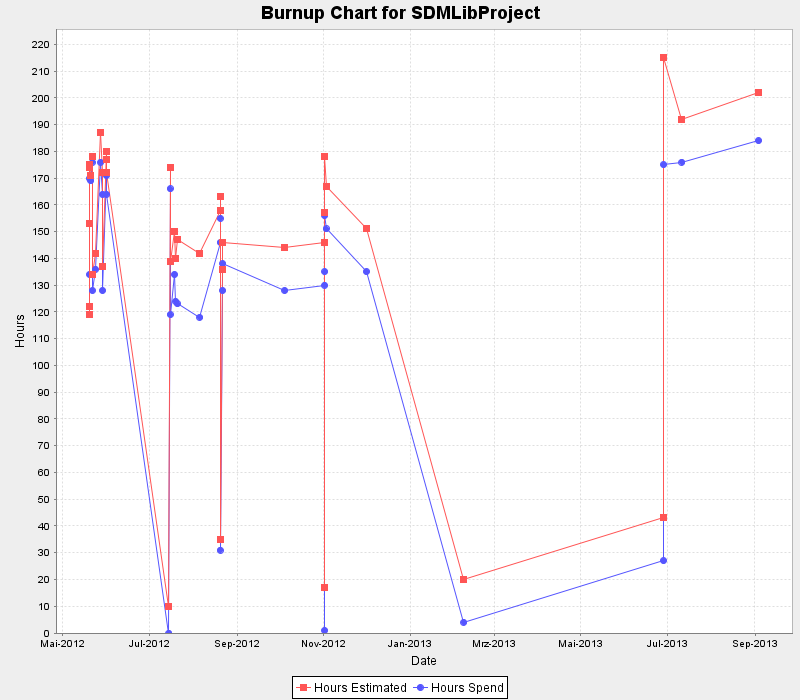
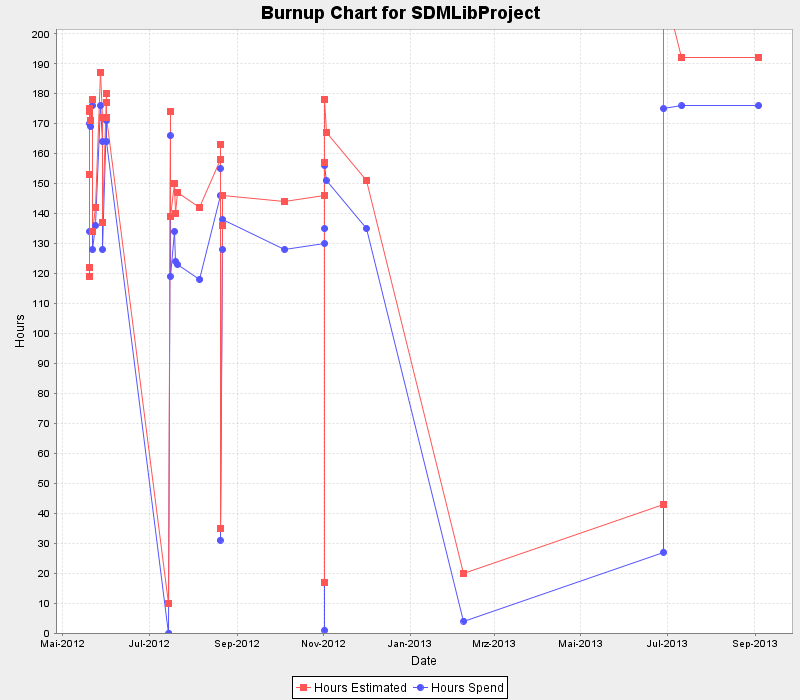
removed dead entries from index.html
git-svn-id: https://svn.code.sf.net/p/sdmlib/code-0/trunk@445 2b52b8e8-071c-4d2f-a868-389f512d1cbb

diff --git a/doc/objectData.html b/doc/objectData.html
@@ -1,23 +1,21 @@
 <html>
 <body>
-<a name='KE.K1'><p>id: <a href='#KE.K1'>KE.K1</a> <br/>class: org.sdmlib.scenarios.KanbanEntry <br/>prop: {"name":"SDMLibProject","phase":"active","lastDeveloper":"zuendorf","hoursRemaining":18,"hoursSpend":184,"subentries":[{"id":"KE.K103"},{"id":"KE.K175"},{"id":"KE.K117"},{"id":"KE.K162"},{"id":"KE.K139"},{"id":"KE.K237"},{"id":"KE.K147"},{"id":"KE.K191"},{"id":"KE.K143"},{"id":"KE.K209"},{"id":"KE.K217"},{"id":"KE.K145"},{"id":"KE.K233"},{"id":"KE.K45"},{"id":"KE.K18"},{"id":"KE.K11"},{"id":"KE.K185"},{"id":"KE.K201"},{"id":"KE.K179"},{"id":"KE.K149"},{"id":"KE.K221"},{"id":"KE.K160"},{"id":"KE.K198"},{"id":"KE.K207"},{"id":"KE.K213"},{"id":"KE.K2"},{"id":"KE.K189"},{"id":"KE.K223"},{"id":"KE.K187"},{"id":"KE.K225"},{"id":"KE.K136"},{"id":"KE.K235"},{"id":"KE.K229"},{"id":"KE.K241"},{"id":"KE.K215"},{"id":"KE.K239"},{"id":"KE.K126"},{"id":"KE.K245"}],"logEntries":[{"id":"KE.L100"},{"id":"KE.L196"},{"id":"KE.L118"},{"id":"KE.L202"},{"id":"KE.L218"},{"id":"KE.L23"},{"id":"KE.L59"},{"id":"KE.L151"},{"id":"KE.L67"},{"id":"KE.L33"},{"id":"KE.L228"},{"id":"KE.L172"},{"id":"KE.L53"},{"id":"KE.L180"},{"id":"KE.L164"},{"id":"KE.L155"},{"id":"KE.L14"},{"id":"KE.L51"},{"id":"KE.L121"},{"id":"KE.L110"},{"id":"KE.L42"},{"id":"KE.L130"},{"id":"KE.L127"},{"id":"KE.L80"},{"id":"KE.L192"},{"id":"KE.L64"},{"id":"KE.L177"},{"id":"KE.L194"},{"id":"KE.L124"},{"id":"KE.L36"},{"id":"KE.L211"},{"id":"KE.L199"},{"id":"KE.L113"},{"id":"KE.L95"},{"id":"KE.L70"},{"id":"KE.L182"},{"id":"KE.L166"},{"id":"KE.L97"},{"id":"KE.L205"},{"id":"KE.L169"},{"id":"KE.L204"},{"id":"KE.L91"},{"id":"KE.L77"},{"id":"KE.L107"},{"id":"KE.L55"},{"id":"KE.L47"},{"id":"KE.L87"},{"id":"KE.L84"},{"id":"KE.L38"},{"id":"KE.L232"},{"id":"KE.L61"},{"id":"KE.L74"},{"id":"KE.L243"},{"id":"KE.L249"},{"id":"KE.L250"},{"id":"KE.L251"}]} <br/></p></a>
-<a name='KE.K2'><p>id: <a href='#KE.K2'>KE.K2</a> <br/>class: org.sdmlib.scenarios.KanbanEntry <br/>prop: {"name":"Sprint.001.Booting","phase":"active","lastDeveloper":"zuendorf","hoursRemaining":4,"hoursSpend":60,"parent":{"id":"KE.K1"},"subentries":[{"id":"KE.K3"},{"id":"KE.K4"},{"id":"KE.K5"},{"id":"KE.K6"},{"id":"KE.K9"},{"id":"KE.K7"},{"id":"KE.K10"},{"id":"KE.K8"},{"id":"KE.K73"}],"logEntries":[{"id":"KE.L65"},{"id":"KE.L173"},{"id":"KE.L48"},{"id":"KE.L68"},{"id":"KE.L52"},{"id":"KE.L88"},{"id":"KE.L156"},{"id":"KE.L85"},{"id":"KE.L75"},{"id":"KE.L131"},{"id":"KE.L34"},{"id":"KE.L62"},{"id":"KE.L152"},{"id":"KE.L167"},{"id":"KE.L96"},{"id":"KE.L15"},{"id":"KE.L24"},{"id":"KE.L37"},{"id":"KE.L39"},{"id":"KE.L43"},{"id":"KE.L54"},{"id":"KE.L56"},{"id":"KE.L71"},{"id":"KE.L78"},{"id":"KE.L81"},{"id":"KE.L92"},{"id":"KE.L98"},{"id":"KE.L101"},{"id":"KE.L105"},{"id":"KE.L244"}]} <br/></p></a>
+<a name='KE.K1'><p>id: <a href='#KE.K1'>KE.K1</a> <br/>class: org.sdmlib.scenarios.KanbanEntry <br/>prop: {"name":"SDMLibProject","phase":"active","lastDeveloper":"zuendorf","hoursRemaining":16,"hoursSpend":176,"subentries":[{"id":"KE.K103"},{"id":"KE.K175"},{"id":"KE.K117"},{"id":"KE.K162"},{"id":"KE.K139"},{"id":"KE.K237"},{"id":"KE.K147"},{"id":"KE.K191"},{"id":"KE.K143"},{"id":"KE.K209"},{"id":"KE.K217"},{"id":"KE.K145"},{"id":"KE.K233"},{"id":"KE.K45"},{"id":"KE.K18"},{"id":"KE.K11"},{"id":"KE.K185"},{"id":"KE.K201"},{"id":"KE.K179"},{"id":"KE.K149"},{"id":"KE.K221"},{"id":"KE.K160"},{"id":"KE.K198"},{"id":"KE.K2"},{"id":"KE.K189"},{"id":"KE.K225"},{"id":"KE.K136"},{"id":"KE.K235"},{"id":"KE.K229"},{"id":"KE.K241"},{"id":"KE.K215"},{"id":"KE.K239"},{"id":"KE.K126"},{"id":"KE.K245"}],"logEntries":[{"id":"KE.L100"},{"id":"KE.L196"},{"id":"KE.L118"},{"id":"KE.L202"},{"id":"KE.L218"},{"id":"KE.L23"},{"id":"KE.L59"},{"id":"KE.L151"},{"id":"KE.L67"},{"id":"KE.L33"},{"id":"KE.L228"},{"id":"KE.L172"},{"id":"KE.L53"},{"id":"KE.L180"},{"id":"KE.L164"},{"id":"KE.L155"},{"id":"KE.L14"},{"id":"KE.L51"},{"id":"KE.L121"},{"id":"KE.L110"},{"id":"KE.L42"},{"id":"KE.L130"},{"id":"KE.L127"},{"id":"KE.L80"},{"id":"KE.L192"},{"id":"KE.L64"},{"id":"KE.L177"},{"id":"KE.L194"},{"id":"KE.L124"},{"id":"KE.L36"},{"id":"KE.L211"},{"id":"KE.L199"},{"id":"KE.L113"},{"id":"KE.L95"},{"id":"KE.L70"},{"id":"KE.L182"},{"id":"KE.L166"},{"id":"KE.L97"},{"id":"KE.L205"},{"id":"KE.L169"},{"id":"KE.L204"},{"id":"KE.L91"},{"id":"KE.L77"},{"id":"KE.L107"},{"id":"KE.L55"},{"id":"KE.L47"},{"id":"KE.L87"},{"id":"KE.L84"},{"id":"KE.L38"},{"id":"KE.L232"},{"id":"KE.L61"},{"id":"KE.L74"},{"id":"KE.L243"},{"id":"KE.L249"},{"id":"KE.L250"},{"id":"KE.L251"},{"id":"KE.L253"}]} <br/></p></a>
+<a name='KE.K2'><p>id: <a href='#KE.K2'>KE.K2</a> <br/>class: org.sdmlib.scenarios.KanbanEntry <br/>prop: {"name":"Sprint.001.Booting","phase":"active","lastDeveloper":"zuendorf","hoursRemaining":2,"hoursSpend":52,"parent":{"id":"KE.K1"},"subentries":[{"id":"KE.K3"},{"id":"KE.K4"},{"id":"KE.K5"},{"id":"KE.K6"},{"id":"KE.K7"},{"id":"KE.K10"},{"id":"KE.K8"},{"id":"KE.K73"}],"logEntries":[{"id":"KE.L65"},{"id":"KE.L173"},{"id":"KE.L48"},{"id":"KE.L68"},{"id":"KE.L52"},{"id":"KE.L88"},{"id":"KE.L156"},{"id":"KE.L85"},{"id":"KE.L75"},{"id":"KE.L131"},{"id":"KE.L34"},{"id":"KE.L62"},{"id":"KE.L152"},{"id":"KE.L167"},{"id":"KE.L96"},{"id":"KE.L15"},{"id":"KE.L24"},{"id":"KE.L37"},{"id":"KE.L39"},{"id":"KE.L43"},{"id":"KE.L54"},{"id":"KE.L56"},{"id":"KE.L71"},{"id":"KE.L78"},{"id":"KE.L81"},{"id":"KE.L92"},{"id":"KE.L98"},{"id":"KE.L101"},{"id":"KE.L105"},{"id":"KE.L244"},{"id":"KE.L252"}]} <br/></p></a>
 <a name='KE.K3'><p>id: <a href='#KE.K3'>KE.K3</a> <br/>class: org.sdmlib.scenarios.KanbanEntry <br/>prop: {"name":"ScenarioInfrastructure","phase":"done","lastDeveloper":"zuendorf","hoursSpend":1,"parent":{"id":"KE.K2"},"logEntries":[{"id":"KE.L13"},{"id":"KE.L16"}]} <br/></p></a>
 <a name='KE.K4'><p>id: <a href='#KE.K4'>KE.K4</a> <br/>class: org.sdmlib.scenarios.KanbanEntry <br/>prop: {"name":"StudyRightClassesCodeGen","phase":"done","lastDeveloper":"zuendorf","hoursSpend":13,"parent":{"id":"KE.K2"},"logEntries":[{"id":"KE.L40"},{"id":"KE.L25"},{"id":"KE.L26"},{"id":"KE.L27"},{"id":"KE.L28"},{"id":"KE.L29"},{"id":"KE.L30"},{"id":"KE.L31"},{"id":"KE.L32"},{"id":"KE.L41"},{"id":"KE.L44"},{"id":"KE.L57"},{"id":"KE.L58"}]} <br/></p></a>
 <a name='KE.K5'><p>id: <a href='#KE.K5'>KE.K5</a> <br/>class: org.sdmlib.scenarios.KanbanEntry <br/>prop: {"name":"StudyRightObjectScenarios","phase":"done","lastDeveloper":"zuendorf","hoursRemaining":2,"hoursSpend":6,"parent":{"id":"KE.K2"},"logEntries":[{"id":"KE.L63"},{"id":"KE.L49"},{"id":"KE.L21"},{"id":"KE.L22"},{"id":"KE.L50"},{"id":"KE.L66"},{"id":"KE.L174"}],"files":"examples/org/sdmlib/examples/studyright/StudyRightClassesCodeGen.java"} <br/></p></a>
 <a name='KE.K6'><p>id: <a href='#KE.K6'>KE.K6</a> <br/>class: org.sdmlib.scenarios.KanbanEntry <br/>prop: {"name":"StudyRightReverseClassModel","phase":"done","lastDeveloper":"zuendorf","hoursSpend":1,"parent":{"id":"KE.K2"},"logEntries":[{"id":"KE.L17"},{"id":"KE.L35"}],"files":"examples/org/sdmlib/examples/studyright/StudyRightClassesCodeGen.java"} <br/></p></a>
 <a name='KE.K7'><p>id: <a href='#KE.K7'>KE.K7</a> <br/>class: org.sdmlib.scenarios.KanbanEntry <br/>prop: {"name":"ClassModelCodeGen","phase":"implementation","lastDeveloper":"zuendorf","hoursSpend":12,"parent":{"id":"KE.K2"},"logEntries":[{"id":"KE.L133"},{"id":"KE.L135"},{"id":"KE.L132"},{"id":"KE.L134"},{"id":"KE.L168"}]} <br/></p></a>
 <a name='KE.K8'><p>id: <a href='#KE.K8'>KE.K8</a> <br/>class: org.sdmlib.scenarios.KanbanEntry <br/>prop: {"name":"GroupAccountCodegen","phase":"done","lastDeveloper":"zuendorf","hoursSpend":2,"parent":{"id":"KE.K2"},"logEntries":[{"id":"KE.L69"},{"id":"KE.L72"}],"files":"examples/org/sdmlib/examples/groupAccount/GroupAccountTests.java"} <br/></p></a>
-<a name='KE.K9'><p>id: <a href='#KE.K9'>KE.K9</a> <br/>class: org.sdmlib.scenarios.KanbanEntry <br/>prop: {"name":"GroupAccountRuleRecognition","phase":"modeling","lastDeveloper":"zuendorf","hoursRemaining":2,"hoursSpend":8,"parent":{"id":"KE.K2"},"logEntries":[{"id":"KE.L93"},{"id":"KE.L94"}],"files":"examples/org/sdmlib/examples/groupAccount/GroupAccountTests.java"} <br/></p></a>
 <a name='KE.K10'><p>id: <a href='#KE.K10'>KE.K10</a> <br/>class: org.sdmlib.scenarios.KanbanEntry <br/>prop: {"name":"TransformationsCodegen","phase":"modeling","lastDeveloper":"zuendorf","hoursSpend":7,"parent":{"id":"KE.K2"},"logEntries":[{"id":"KE.L157"},{"id":"KE.L138"},{"id":"KE.L158"},{"id":"KE.L159"}],"files":"test/org/sdmlib/models/transformations/TransformationsCodeGen.java"} <br/></p></a>
 <a name='KE.K11'><p>id: <a href='#KE.K11'>KE.K11</a> <br/>class: org.sdmlib.scenarios.KanbanEntry <br/>prop: {"name":"ProjectManagement","phase":"active","lastDeveloper":"zuendorf","parent":{"id":"KE.K1"},"logEntries":[{"id":"KE.L12"}]} <br/></p></a>
 <a name='KE.K18'><p>id: <a href='#KE.K18'>KE.K18</a> <br/>class: org.sdmlib.scenarios.KanbanEntry <br/>prop: {"name":"StudyRightExtendsReverseClassModel","phase":"backlog","lastDeveloper":"ajahl","parent":{"id":"KE.K1"},"logEntries":[{"id":"KE.L19"},{"id":"KE.L20"}]} <br/></p></a>
 <a name='KE.K45'><p>id: <a href='#KE.K45'>KE.K45</a> <br/>class: org.sdmlib.scenarios.KanbanEntry <br/>prop: {"name":"StudyRightOneToOneAssoc","phase":"done","lastDeveloper":"zuendorf","hoursSpend":1,"parent":{"id":"KE.K1"},"logEntries":[{"id":"KE.L46"},{"id":"KE.L60"}]} <br/></p></a>
 <a name='KE.K73'><p>id: <a href='#KE.K73'>KE.K73</a> <br/>class: org.sdmlib.scenarios.KanbanEntry <br/>prop: {"name":"GenericObjectDiagram","phase":"backlog","lastDeveloper":"zuendorf","hoursSpend":10,"parent":{"id":"KE.K2"},"logEntries":[{"id":"KE.L79"},{"id":"KE.L82"},{"id":"KE.L83"},{"id":"KE.L90"},{"id":"KE.L153"},{"id":"KE.L86"},{"id":"KE.L76"},{"id":"KE.L89"},{"id":"KE.L141"}],"files":"test/org/sdmlib/models/objects/GenericObjectsTest.java"} <br/></p></a>
 <a name='KE.K99'><p>id: <a href='#KE.K99'>KE.K99</a> <br/>class: org.sdmlib.scenarios.KanbanEntry <br/>prop: {"name":"LudoModel","phase":"backlog","lastDeveloper":"zuendorf","hoursSpend":2,"parent":{"id":"KE.K103"},"logEntries":[{"id":"KE.L102"},{"id":"KE.L109"},{"id":"KE.L112"},{"id":"KE.L123"},{"id":"KE.L142"}],"files":"examples/org/sdmlib/examples/ludo/LudoModel.java"} <br/></p></a>
-<a name='KE.K103'><p>id: <a href='#KE.K103'>KE.K103</a> <br/>class: org.sdmlib.scenarios.KanbanEntry <br/>prop: {"name":"Sprint.002.Transformations","phase":"active","lastDeveloper":"zuendorf","hoursSpend":6,"parent":{"id":"KE.K1"},"subentries":[{"id":"KE.K99"},{"id":"KE.K104"},{"id":"KE.K116"},{"id":"KE.K154"}],"logEntries":[{"id":"KE.L106"},{"id":"KE.L108"},{"id":"KE.L111"},{"id":"KE.L114"},{"id":"KE.L122"},{"id":"KE.L170"}]} <br/></p></a>
+<a name='KE.K103'><p>id: <a href='#KE.K103'>KE.K103</a> <br/>class: org.sdmlib.scenarios.KanbanEntry <br/>prop: {"name":"Sprint.002.Transformations","phase":"active","lastDeveloper":"zuendorf","hoursSpend":6,"parent":{"id":"KE.K1"},"subentries":[{"id":"KE.K99"},{"id":"KE.K104"},{"id":"KE.K154"}],"logEntries":[{"id":"KE.L106"},{"id":"KE.L108"},{"id":"KE.L111"},{"id":"KE.L114"},{"id":"KE.L122"},{"id":"KE.L170"}]} <br/></p></a>
 <a name='KE.K104'><p>id: <a href='#KE.K104'>KE.K104</a> <br/>class: org.sdmlib.scenarios.KanbanEntry <br/>prop: {"name":"LudoScenario","phase":"modeling","lastDeveloper":"zuendorf","hoursSpend":4,"parent":{"id":"KE.K103"},"logEntries":[{"id":"KE.L115"},{"id":"KE.L171"}],"files":"examples/org/sdmlib/examples/ludo/LudoScenario.java"} <br/></p></a>
-<a name='KE.K116'><p>id: <a href='#KE.K116'>KE.K116</a> <br/>class: org.sdmlib.scenarios.KanbanEntry <br/>prop: {"name":"PatternModel","phase":"backlog","parent":{"id":"KE.K103"},"files":"test/org/sdmlib/models/patterns/PatternModelCodeGen.java"} <br/></p></a>
 <a name='KE.K117'><p>id: <a href='#KE.K117'>KE.K117</a> <br/>class: org.sdmlib.scenarios.KanbanEntry <br/>prop: {"name":"PatternModelCodegen","phase":"done","lastDeveloper":"zuendorf","hoursSpend":84,"parent":{"id":"KE.K1"},"logEntries":[{"id":"KE.L119"},{"id":"KE.L120"},{"id":"KE.L125"},{"id":"KE.L165"}]} <br/></p></a>
 <a name='KE.K126'><p>id: <a href='#KE.K126'>KE.K126</a> <br/>class: org.sdmlib.scenarios.KanbanEntry <br/>prop: {"name":"LudoScenarioManual","phase":"done","lastDeveloper":"zuendorf","hoursSpend":1,"parent":{"id":"KE.K1"},"logEntries":[{"id":"KE.L128"},{"id":"KE.L129"}]} <br/></p></a>
 <a name='KE.K136'><p>id: <a href='#KE.K136'>KE.K136</a> <br/>class: org.sdmlib.scenarios.KanbanEntry <br/>prop: {"name":"TTC2011HelloWorldConstantTransformation1","phase":"backlog","lastDeveloper":"zuendorf","parent":{"id":"KE.K1"},"logEntries":[{"id":"KE.L137"}]} <br/></p></a>
@@ -32,18 +30,14 @@
 <a name='KE.K175'><p>id: <a href='#KE.K175'>KE.K175</a> <br/>class: org.sdmlib.scenarios.KanbanEntry <br/>prop: {"name":"TodoEntries","phase":"modeling","lastDeveloper":"zuendorf","hoursRemaining":4,"parent":{"id":"KE.K1"},"logEntries":[{"id":"KE.L176"},{"id":"KE.L178"}]} <br/></p></a>
 <a name='KE.K179'><p>id: <a href='#KE.K179'>KE.K179</a> <br/>class: org.sdmlib.scenarios.KanbanEntry <br/>prop: {"name":"ExtendScenarioByAddToDoMethod","phase":"backlog","lastDeveloper":"zuendorf","hoursSpend":5,"parent":{"id":"KE.K1"},"logEntries":[{"id":"KE.L197"},{"id":"KE.L195"},{"id":"KE.L181"},{"id":"KE.L183"},{"id":"KE.L184"}]} <br/></p></a>
 <a name='KE.K185'><p>id: <a href='#KE.K185'>KE.K185</a> <br/>class: org.sdmlib.scenarios.KanbanEntry <br/>prop: {"name":"taskFlowModel","phase":"backlog","lastDeveloper":"zuendorf","parent":{"id":"KE.K1"},"logEntries":[{"id":"KE.L186"}]} <br/></p></a>
-<a name='KE.K187'><p>id: <a href='#KE.K187'>KE.K187</a> <br/>class: org.sdmlib.scenarios.KanbanEntry <br/>prop: {"name":"peerToPeerChatModel","phase":"backlog","lastDeveloper":"zuendorf","parent":{"id":"KE.K1"},"logEntries":[{"id":"KE.L188"}]} <br/></p></a>
 <a name='KE.K189'><p>id: <a href='#KE.K189'>KE.K189</a> <br/>class: org.sdmlib.scenarios.KanbanEntry <br/>prop: {"name":"adamAndEveModel","phase":"backlog","lastDeveloper":"zuendorf","parent":{"id":"KE.K1"},"logEntries":[{"id":"KE.L190"}]} <br/></p></a>
 <a name='KE.K191'><p>id: <a href='#KE.K191'>KE.K191</a> <br/>class: org.sdmlib.scenarios.KanbanEntry <br/>prop: {"name":"we should build attr.remove","phase":"backlog","lastDeveloper":"zuendorf","hoursRemaining":8,"parent":{"id":"KE.K1"},"logEntries":[{"id":"KE.L193"}]} <br/></p></a>
 <a name='KE.K198'><p>id: <a href='#KE.K198'>KE.K198</a> <br/>class: org.sdmlib.scenarios.KanbanEntry <br/>prop: {"name":"WrapExistingClasses","phase":"backlog","lastDeveloper":"zuendorf","hoursSpend":5,"parent":{"id":"KE.K1"},"logEntries":[{"id":"KE.L200"},{"id":"KE.L206"}]} <br/></p></a>
 <a name='KE.K201'><p>id: <a href='#KE.K201'>KE.K201</a> <br/>class: org.sdmlib.scenarios.KanbanEntry <br/>prop: {"name":"SortIndex","phase":"done","lastDeveloper":"zuendorf","hoursSpend":1,"parent":{"id":"KE.K1"},"logEntries":[{"id":"KE.L203"}]} <br/></p></a>
-<a name='KE.K207'><p>id: <a href='#KE.K207'>KE.K207</a> <br/>class: org.sdmlib.scenarios.KanbanEntry <br/>prop: {"name":"PeerToServerChatScenario","phase":"backlog","lastDeveloper":"zuendorf","parent":{"id":"KE.K1"},"logEntries":[{"id":"KE.L208"}]} <br/></p></a>
 <a name='KE.K209'><p>id: <a href='#KE.K209'>KE.K209</a> <br/>class: org.sdmlib.scenarios.KanbanEntry <br/>prop: {"name":"EmptyClass","phase":"done","lastDeveloper":"zuendorf","hoursSpend":1,"parent":{"id":"KE.K1"},"logEntries":[{"id":"KE.L210"},{"id":"KE.L212"}]} <br/></p></a>
-<a name='KE.K213'><p>id: <a href='#KE.K213'>KE.K213</a> <br/>class: org.sdmlib.scenarios.KanbanEntry <br/>prop: {"name":"PeerToPeerNetworkChatScenario","phase":"backlog","lastDeveloper":"zuendorf","parent":{"id":"KE.K1"},"logEntries":[{"id":"KE.L214"}]} <br/></p></a>
 <a name='KE.K215'><p>id: <a href='#KE.K215'>KE.K215</a> <br/>class: org.sdmlib.scenarios.KanbanEntry <br/>prop: {"name":"trainCollectPassengers","phase":"backlog","lastDeveloper":"zuendorf","parent":{"id":"KE.K1"},"logEntries":[{"id":"KE.L216"}]} <br/></p></a>
 <a name='KE.K217'><p>id: <a href='#KE.K217'>KE.K217</a> <br/>class: org.sdmlib.scenarios.KanbanEntry <br/>prop: {"name":"TrainModel","phase":"done","lastDeveloper":"zuendorf","hoursSpend":3,"parent":{"id":"KE.K1"},"logEntries":[{"id":"KE.L219"},{"id":"KE.L220"}]} <br/></p></a>
 <a name='KE.K221'><p>id: <a href='#KE.K221'>KE.K221</a> <br/>class: org.sdmlib.scenarios.KanbanEntry <br/>prop: {"name":"ReplicationModel","phase":"backlog","lastDeveloper":"zuendorf","parent":{"id":"KE.K1"},"logEntries":[{"id":"KE.L222"}]} <br/></p></a>
-<a name='KE.K223'><p>id: <a href='#KE.K223'>KE.K223</a> <br/>class: org.sdmlib.scenarios.KanbanEntry <br/>prop: {"name":"MauMauModel","phase":"backlog","lastDeveloper":"zuendorf","parent":{"id":"KE.K1"},"logEntries":[{"id":"KE.L224"}]} <br/></p></a>
 <a name='KE.K225'><p>id: <a href='#KE.K225'>KE.K225</a> <br/>class: org.sdmlib.scenarios.KanbanEntry <br/>prop: {"name":"EMFStudyRightClasses","phase":"modeling","lastDeveloper":"zuendorf","hoursSpend":8,"parent":{"id":"KE.K1"},"logEntries":[{"id":"KE.L226"},{"id":"KE.L227"}]} <br/></p></a>
 <a name='KE.K229'><p>id: <a href='#KE.K229'>KE.K229</a> <br/>class: org.sdmlib.scenarios.KanbanEntry <br/>prop: {"name":"LoadEcoreCreateClassModel","phase":"backlog","lastDeveloper":"zuendorf","hoursSpend":1,"parent":{"id":"KE.K1"},"logEntries":[{"id":"KE.L231"},{"id":"KE.L230"}]} <br/></p></a>
 <a name='KE.K233'><p>id: <a href='#KE.K233'>KE.K233</a> <br/>class: org.sdmlib.scenarios.KanbanEntry <br/>prop: {"name":"SimpleReachabilityGraphModel","phase":"backlog","lastDeveloper":"zuendorf","parent":{"id":"KE.K1"},"logEntries":[{"id":"KE.L234"}]} <br/></p></a>
@@ -130,8 +124,6 @@
 <a name='KE.L90'><p>id: <a href='#KE.L90'>KE.L90</a> <br/>class: org.sdmlib.scenarios.LogEntry <br/>prop: {"date":"31.05.2012 15:22:42","kanbanEntry":{"id":"KE.K73"},"developer":"zuendorf","phase":"bug","comment":"Achieved: BUG REPORT: if an object has a (String) attribute with name 'id', this attribute is not shown in the object diagram "} <br/></p></a>
 <a name='KE.L91'><p>id: <a href='#KE.L91'>KE.L91</a> <br/>class: org.sdmlib.scenarios.LogEntry <br/>prop: {"date":"31.05.2012 15:22:42","hoursSpend":8,"hoursRemainingInTotal":8,"kanbanEntry":{"id":"KE.K1"},"developer":"zuendorf","phase":"active","comment":"Sprint.001.Booting: GenericObjectDiagram: Achieved: BUG REPORT: if an object has a (String) attribute with name 'id', this attribute is not shown in the object diagram "} <br/></p></a>
 <a name='KE.L92'><p>id: <a href='#KE.L92'>KE.L92</a> <br/>class: org.sdmlib.scenarios.LogEntry <br/>prop: {"date":"31.05.2012 15:22:42","hoursSpend":8,"hoursRemainingInTotal":8,"kanbanEntry":{"id":"KE.K2"},"developer":"zuendorf","phase":"active","comment":"GenericObjectDiagram: Achieved: BUG REPORT: if an object has a (String) attribute with name 'id', this attribute is not shown in the object diagram "} <br/></p></a>
-<a name='KE.L93'><p>id: <a href='#KE.L93'>KE.L93</a> <br/>class: org.sdmlib.scenarios.LogEntry <br/>prop: {"date":"04.04.2012 00:26:59","hoursRemainingInTotal":2,"kanbanEntry":{"id":"KE.K9"},"developer":"zuendorf","phase":"modeling","comment":"Achieved: Start situation: classes have been generated. Now create some example object structure"} <br/></p></a>
-<a name='KE.L94'><p>id: <a href='#KE.L94'>KE.L94</a> <br/>class: org.sdmlib.scenarios.LogEntry <br/>prop: {"date":"15.04.2012 17:18:42","hoursSpend":8,"hoursRemainingInTotal":2,"kanbanEntry":{"id":"KE.K9"},"developer":"zuendorf","phase":"modeling","comment":"Achieved: We will call updateBalances() to compute the correct balances.nTherefore, show updateBalances() first as code and then as a graphical model transformation operation diagram."} <br/></p></a>
 <a name='KE.L95'><p>id: <a href='#KE.L95'>KE.L95</a> <br/>class: org.sdmlib.scenarios.LogEntry <br/>prop: {"date":"31.05.2012 15:22:42","hoursRemainingInTotal":10,"kanbanEntry":{"id":"KE.K1"},"developer":"zuendorf","phase":"active","comment":"Sprint.001.Booting: GenericObjectDiagram: Achieved: BUG REPORT: if an object has a (String) attribute with name 'id', this attribute is not shown in the object diagram "} <br/></p></a>
 <a name='KE.L96'><p>id: <a href='#KE.L96'>KE.L96</a> <br/>class: org.sdmlib.scenarios.LogEntry <br/>prop: {"date":"31.05.2012 15:22:42","hoursRemainingInTotal":10,"kanbanEntry":{"id":"KE.K2"},"developer":"zuendorf","phase":"active","comment":"GenericObjectDiagram: Achieved: BUG REPORT: if an object has a (String) attribute with name 'id', this attribute is not shown in the object diagram "} <br/></p></a>
 <a name='KE.L97'><p>id: <a href='#KE.L97'>KE.L97</a> <br/>class: org.sdmlib.scenarios.LogEntry <br/>prop: {"date":"31.05.2012 15:22:42","hoursRemainingInTotal":8,"kanbanEntry":{"id":"KE.K1"},"developer":"zuendorf","phase":"active","comment":"Sprint.001.Booting: GenericObjectDiagram: Achieved: BUG REPORT: if an object has a (String) attribute with name 'id', this attribute is not shown in the object diagram "} <br/></p></a>
@@ -206,7 +198,6 @@
 <a name='KE.L183'><p>id: <a href='#KE.L183'>KE.L183</a> <br/>class: org.sdmlib.scenarios.LogEntry <br/>prop: {"date":"21.08.2012 17:53:42","hoursSpend":2,"kanbanEntry":{"id":"KE.K179"},"developer":"zuendorf","phase":"done"} <br/></p></a>
 <a name='KE.L184'><p>id: <a href='#KE.L184'>KE.L184</a> <br/>class: org.sdmlib.scenarios.LogEntry <br/>prop: {"date":"21.08.2012 18:02:23","kanbanEntry":{"id":"KE.K179"},"developer":"zuendorf","phase":"backlog","comment":"Achieved: Start situation: "} <br/></p></a>
 <a name='KE.L186'><p>id: <a href='#KE.L186'>KE.L186</a> <br/>class: org.sdmlib.scenarios.LogEntry <br/>prop: {"date":"21.09.2012 12:00:00","kanbanEntry":{"id":"KE.K185"},"developer":"zuendorf","phase":"backlog"} <br/></p></a>
-<a name='KE.L188'><p>id: <a href='#KE.L188'>KE.L188</a> <br/>class: org.sdmlib.scenarios.LogEntry <br/>prop: {"date":"21.09.2012 12:00:00","kanbanEntry":{"id":"KE.K187"},"developer":"zuendorf","phase":"backlog"} <br/></p></a>
 <a name='KE.L190'><p>id: <a href='#KE.L190'>KE.L190</a> <br/>class: org.sdmlib.scenarios.LogEntry <br/>prop: {"date":"26.09.2012 12:00:00","kanbanEntry":{"id":"KE.K189"},"developer":"zuendorf","phase":"backlog"} <br/></p></a>
 <a name='KE.L192'><p>id: <a href='#KE.L192'>KE.L192</a> <br/>class: org.sdmlib.scenarios.LogEntry <br/>prop: {"date":"04.10.2012 12:50:42","hoursRemainingInTotal":16,"kanbanEntry":{"id":"KE.K1"},"developer":"zuendorf","phase":"active","comment":"we should build attr.remove: null"} <br/></p></a>
 <a name='KE.L193'><p>id: <a href='#KE.L193'>KE.L193</a> <br/>class: org.sdmlib.scenarios.LogEntry <br/>prop: {"date":"04.10.2012 12:50:42","hoursRemainingInTotal":8,"kanbanEntry":{"id":"KE.K191"},"developer":"zuendorf","phase":"backlog"} <br/></p></a>
@@ -221,17 +212,14 @@
 <a name='KE.L204'><p>id: <a href='#KE.L204'>KE.L204</a> <br/>class: org.sdmlib.scenarios.LogEntry <br/>prop: {"date":"01.11.2012 14:43:42","hoursSpend":1,"hoursRemainingInTotal":22,"kanbanEntry":{"id":"KE.K1"},"developer":"zuendorf","phase":"active","comment":"SortIndex: null"} <br/></p></a>
 <a name='KE.L205'><p>id: <a href='#KE.L205'>KE.L205</a> <br/>class: org.sdmlib.scenarios.LogEntry <br/>prop: {"date":"02.11.2012 13:42:42","hoursSpend":5,"hoursRemainingInTotal":16,"kanbanEntry":{"id":"KE.K1"},"developer":"zuendorf","phase":"active","comment":"WrapExistingClasses: null"} <br/></p></a>
 <a name='KE.L206'><p>id: <a href='#KE.L206'>KE.L206</a> <br/>class: org.sdmlib.scenarios.LogEntry <br/>prop: {"date":"02.11.2012 13:42:42","hoursSpend":5,"kanbanEntry":{"id":"KE.K198"},"developer":"zuendorf","phase":"backlog"} <br/></p></a>
-<a name='KE.L208'><p>id: <a href='#KE.L208'>KE.L208</a> <br/>class: org.sdmlib.scenarios.LogEntry <br/>prop: {"date":"15.11.2012 12:00:00","kanbanEntry":{"id":"KE.K207"},"developer":"zuendorf","phase":"backlog"} <br/></p></a>
 <a name='KE.L210'><p>id: <a href='#KE.L210'>KE.L210</a> <br/>class: org.sdmlib.scenarios.LogEntry <br/>prop: {"date":"30.11.2012 12:00:00","kanbanEntry":{"id":"KE.K209"},"developer":"zuendorf","phase":"backlog"} <br/></p></a>
 <a name='KE.L211'><p>id: <a href='#KE.L211'>KE.L211</a> <br/>class: org.sdmlib.scenarios.LogEntry <br/>prop: {"date":"30.11.2012 22:55:42","hoursSpend":1,"hoursRemainingInTotal":16,"kanbanEntry":{"id":"KE.K1"},"developer":"zuendorf","phase":"active","comment":"EmptyClass: Achieved: Simple object without properties creates object diagram,  now"} <br/></p></a>
 <a name='KE.L212'><p>id: <a href='#KE.L212'>KE.L212</a> <br/>class: org.sdmlib.scenarios.LogEntry <br/>prop: {"date":"30.11.2012 22:55:42","hoursSpend":1,"kanbanEntry":{"id":"KE.K209"},"developer":"zuendorf","phase":"done","comment":"Achieved: Simple object without properties creates object diagram,  now"} <br/></p></a>
-<a name='KE.L214'><p>id: <a href='#KE.L214'>KE.L214</a> <br/>class: org.sdmlib.scenarios.LogEntry <br/>prop: {"date":"02.01.2013 12:00:00","kanbanEntry":{"id":"KE.K213"},"developer":"zuendorf","phase":"backlog"} <br/></p></a>
 <a name='KE.L216'><p>id: <a href='#KE.L216'>KE.L216</a> <br/>class: org.sdmlib.scenarios.LogEntry <br/>prop: {"date":"07.02.2013 12:00:00","kanbanEntry":{"id":"KE.K215"},"developer":"zuendorf","phase":"backlog"} <br/></p></a>
 <a name='KE.L218'><p>id: <a href='#KE.L218'>KE.L218</a> <br/>class: org.sdmlib.scenarios.LogEntry <br/>prop: {"date":"07.02.2013 16:20:42","hoursSpend":3,"hoursRemainingInTotal":16,"kanbanEntry":{"id":"KE.K1"},"developer":"zuendorf","phase":"active","comment":"TrainModel: Achieved: Example model for testing destroy with model patterns: "} <br/></p></a>
 <a name='KE.L219'><p>id: <a href='#KE.L219'>KE.L219</a> <br/>class: org.sdmlib.scenarios.LogEntry <br/>prop: {"date":"07.02.2013 12:00:00","kanbanEntry":{"id":"KE.K217"},"developer":"zuendorf","phase":"backlog"} <br/></p></a>
 <a name='KE.L220'><p>id: <a href='#KE.L220'>KE.L220</a> <br/>class: org.sdmlib.scenarios.LogEntry <br/>prop: {"date":"07.02.2013 16:20:42","hoursSpend":3,"kanbanEntry":{"id":"KE.K217"},"developer":"zuendorf","phase":"done","comment":"Achieved: Example model for testing destroy with model patterns: "} <br/></p></a>
 <a name='KE.L222'><p>id: <a href='#KE.L222'>KE.L222</a> <br/>class: org.sdmlib.scenarios.LogEntry <br/>prop: {"date":"01.06.2013 12:00:00","kanbanEntry":{"id":"KE.K221"},"developer":"zuendorf","phase":"backlog"} <br/></p></a>
-<a name='KE.L224'><p>id: <a href='#KE.L224'>KE.L224</a> <br/>class: org.sdmlib.scenarios.LogEntry <br/>prop: {"date":"11.06.2013 12:00:00","kanbanEntry":{"id":"KE.K223"},"developer":"zuendorf","phase":"backlog"} <br/></p></a>
 <a name='KE.L226'><p>id: <a href='#KE.L226'>KE.L226</a> <br/>class: org.sdmlib.scenarios.LogEntry <br/>prop: {"date":"28.06.2013 12:00:00","kanbanEntry":{"id":"KE.K225"},"developer":"zuendorf","phase":"backlog"} <br/></p></a>
 <a name='KE.L227'><p>id: <a href='#KE.L227'>KE.L227</a> <br/>class: org.sdmlib.scenarios.LogEntry <br/>prop: {"date":"08.02.2013 14:53:42","hoursSpend":8,"kanbanEntry":{"id":"KE.K225"},"developer":"zuendorf","phase":"modeling","comment":"Achieved: We build some example classes and then turn them into an Ecore model "} <br/></p></a>
 <a name='KE.L228'><p>id: <a href='#KE.L228'>KE.L228</a> <br/>class: org.sdmlib.scenarios.LogEntry <br/>prop: {"date":"28.06.2013 12:00:00","hoursSpend":8,"hoursRemainingInTotal":16,"kanbanEntry":{"id":"KE.K1"},"developer":"zuendorf","phase":"active","comment":"EMFStudyRightClasses: null"} <br/></p></a>
@@ -251,6 +239,8 @@
 <a name='KE.L249'><p>id: <a href='#KE.L249'>KE.L249</a> <br/>class: org.sdmlib.scenarios.LogEntry <br/>prop: {"date":"03.09.2013 12:00:00","hoursSpend":8,"hoursRemainingInTotal":18,"kanbanEntry":{"id":"KE.K1"},"developer":"zuendorf","phase":"active","comment":"GroupAccountScenario1: null"} <br/></p></a>
 <a name='KE.L250'><p>id: <a href='#KE.L250'>KE.L250</a> <br/>class: org.sdmlib.scenarios.LogEntry <br/>prop: {"date":"03.09.2013 12:00:00","hoursRemainingInTotal":20,"kanbanEntry":{"id":"KE.K1"},"developer":"zuendorf","phase":"active","comment":"GroupAccountScenario1: null"} <br/></p></a>
 <a name='KE.L251'><p>id: <a href='#KE.L251'>KE.L251</a> <br/>class: org.sdmlib.scenarios.LogEntry <br/>prop: {"date":"03.09.2013 12:00:00","hoursRemainingInTotal":18,"kanbanEntry":{"id":"KE.K1"},"developer":"zuendorf","phase":"active","comment":"GroupAccountScenario1: null"} <br/></p></a>
+<a name='KE.L252'><p>id: <a href='#KE.L252'>KE.L252</a> <br/>class: org.sdmlib.scenarios.LogEntry <br/>prop: {"date":"19.08.2012 23:04:42","hoursSpend":-8,"hoursRemainingInTotal":2,"kanbanEntry":{"id":"KE.K2"},"developer":"zuendorf","phase":"active","comment":"StudyRightObjectScenarios: Achieved: Feature Request: model sets need to provide set methods and other methods. These methods shall be forwarded to each set member. ne.g.: room.getNeighbors().findPath(path, motivation); "} <br/></p></a>
+<a name='KE.L253'><p>id: <a href='#KE.L253'>KE.L253</a> <br/>class: org.sdmlib.scenarios.LogEntry <br/>prop: {"date":"03.09.2013 12:00:00","hoursSpend":-8,"hoursRemainingInTotal":16,"kanbanEntry":{"id":"KE.K1"},"developer":"zuendorf","phase":"active","comment":"GroupAccountScenario1: null"} <br/></p></a>
 </body>
 </html>
 

diff --git a/doc/SDMLibProjectkanban.html b/doc/SDMLibProjectkanban.html
@@ -4,8 +4,8 @@
 <tr> <th>active</th> <th>backlog</th> <th>modeling</th> <th>implementation</th> <th>done</th> <th>bug</th> </tr>
 <tr> <td valign='top'><table border ='0'><tr><td><table border='1' rules='none' bgcolor='#fafad2'><tr><td><a href='SDMLibProjectkanban.html'>SDMLibProject</a></td></tr>
 <tr><td>developer = zuendorf</td></tr>
-<tr><td>hours spend = 184.0</td></tr>
-<tr><td>hours remaining = 18.0</td></tr>
+<tr><td>hours spend = 176.0</td></tr>
+<tr><td>hours remaining = 16.0</td></tr>
 <tr><td><a href='SDMLibProjectBurnupChart.png'>burnup</a></td></tr>
 <tr><td><a href='SDMLibProjectTimeLine.html'>time line</a></td></tr>
 </table><tr><td>
@@ -28,8 +28,8 @@
 <tr><td><table border='1' rules='none' bgcolor='#fafad2'><tr><td><a href='Sprint.001.Bootingkanban.html'>Sprint.001.Booting</a></td></tr>
 <tr><td><a href='SDMLibProjectkanban.html'>SDMLibProject</a></td></tr>
 <tr><td>developer = zuendorf</td></tr>
-<tr><td>hours spend = 60.0</td></tr>
-<tr><td>hours remaining = 4.0</td></tr>
+<tr><td>hours spend = 52.0</td></tr>
+<tr><td>hours remaining = 2.0</td></tr>
 <tr><td><a href='Sprint.001.BootingBurnupChart.png'>burnup</a></td></tr>
 <tr><td><a href='Sprint.001.BootingTimeLine.html'>time line</a></td></tr>
 </table><tr><td>
@@ -154,22 +154,6 @@
 <tr><td><a href='WrapExistingClassesBurnupChart.png'>burnup</a></td></tr>
 <tr><td><a href='WrapExistingClassesTimeLine.html'>time line</a></td></tr>
 </table><tr><td>
-<tr><td><table border='1' rules='none' bgcolor='#fafad2'><tr><td><a href='PeerToServerChatScenario.html'>PeerToServerChatScenario</a></td></tr>
-<tr><td><a href='SDMLibProjectkanban.html'>SDMLibProject</a></td></tr>
-<tr><td>developer = zuendorf</td></tr>
-<tr><td>hours spend = 0.0</td></tr>
-<tr><td>hours remaining = 0.0</td></tr>
-<tr><td><a href='PeerToServerChatScenarioBurnupChart.png'>burnup</a></td></tr>
-<tr><td><a href='PeerToServerChatScenarioTimeLine.html'>time line</a></td></tr>
-</table><tr><td>
-<tr><td><table border='1' rules='none' bgcolor='#fafad2'><tr><td><a href='PeerToPeerNetworkChatScenario.html'>PeerToPeerNetworkChatScenario</a></td></tr>
-<tr><td><a href='SDMLibProjectkanban.html'>SDMLibProject</a></td></tr>
-<tr><td>developer = zuendorf</td></tr>
-<tr><td>hours spend = 0.0</td></tr>
-<tr><td>hours remaining = 0.0</td></tr>
-<tr><td><a href='PeerToPeerNetworkChatScenarioBurnupChart.png'>burnup</a></td></tr>
-<tr><td><a href='PeerToPeerNetworkChatScenarioTimeLine.html'>time line</a></td></tr>
-</table><tr><td>
 <tr><td><table border='1' rules='none' bgcolor='#fafad2'><tr><td><a href='adamAndEveModel.html'>adamAndEveModel</a></td></tr>
 <tr><td><a href='SDMLibProjectkanban.html'>SDMLibProject</a></td></tr>
 <tr><td>developer = zuendorf</td></tr>
@@ -177,22 +161,6 @@
 <tr><td>hours remaining = 0.0</td></tr>
 <tr><td><a href='adamAndEveModelBurnupChart.png'>burnup</a></td></tr>
 <tr><td><a href='adamAndEveModelTimeLine.html'>time line</a></td></tr>
-</table><tr><td>
-<tr><td><table border='1' rules='none' bgcolor='#fafad2'><tr><td><a href='MauMauModel.html'>MauMauModel</a></td></tr>
-<tr><td><a href='SDMLibProjectkanban.html'>SDMLibProject</a></td></tr>
-<tr><td>developer = zuendorf</td></tr>
-<tr><td>hours spend = 0.0</td></tr>
-<tr><td>hours remaining = 0.0</td></tr>
-<tr><td><a href='MauMauModelBurnupChart.png'>burnup</a></td></tr>
-<tr><td><a href='MauMauModelTimeLine.html'>time line</a></td></tr>
-</table><tr><td>
-<tr><td><table border='1' rules='none' bgcolor='#fafad2'><tr><td><a href='peerToPeerChatModel.html'>peerToPeerChatModel</a></td></tr>
-<tr><td><a href='SDMLibProjectkanban.html'>SDMLibProject</a></td></tr>
-<tr><td>developer = zuendorf</td></tr>
-<tr><td>hours spend = 0.0</td></tr>
-<tr><td>hours remaining = 0.0</td></tr>
-<tr><td><a href='peerToPeerChatModelBurnupChart.png'>burnup</a></td></tr>
-<tr><td><a href='peerToPeerChatModelTimeLine.html'>time line</a></td></tr>
 </table><tr><td>
 <tr><td><table border='1' rules='none' bgcolor='#fafad2'><tr><td><a href='TTC2011HelloWorldConstantTransformation1.html'>TTC2011HelloWorldConstantTransformation1</a></td></tr>
 <tr><td><a href='SDMLibProjectkanban.html'>SDMLibProject</a></td></tr>
@@ -250,14 +218,6 @@
 <tr><td><a href='LudoModelBurnupChart.png'>burnup</a></td></tr>
 <tr><td><a href='LudoModelTimeLine.html'>time line</a></td></tr>
 </table><tr><td>
-<tr><td><table border='1' rules='none' bgcolor='#fafad2'><tr><td><a href='PatternModel.html'>PatternModel</a></td></tr>
-<tr><td><a href='Sprint.002.Transformationskanban.html'>Sprint.002.Transformations</a></td></tr>
-<tr><td>developer = null</td></tr>
-<tr><td>hours spend = 0.0</td></tr>
-<tr><td>hours remaining = 0.0</td></tr>
-<tr><td><a href='PatternModelBurnupChart.png'>burnup</a></td></tr>
-<tr><td><a href='PatternModelTimeLine.html'>time line</a></td></tr>
-</table><tr><td>
 <tr><td><table border='1' rules='none' bgcolor='#fafad2'><tr><td><a href='PatternModelCodeGen.html'>PatternModelCodeGen</a></td></tr>
 <tr><td><a href='Sprint.002.Transformationskanban.html'>Sprint.002.Transformations</a></td></tr>
 <tr><td>developer = null</td></tr>
@@ -306,14 +266,6 @@
 <tr><td>hours remaining = 0.0</td></tr>
 <tr><td><a href='LudoScenarioBurnupChart.png'>burnup</a></td></tr>
 <tr><td><a href='LudoScenarioTimeLine.html'>time line</a></td></tr>
-</table><tr><td>
-<tr><td><table border='1' rules='none' bgcolor='#fafad2'><tr><td><a href='GroupAccountRuleRecognition.html'>GroupAccountRuleRecognition</a></td></tr>
-<tr><td><a href='Sprint.001.Bootingkanban.html'>Sprint.001.Booting</a></td></tr>
-<tr><td>developer = zuendorf</td></tr>
-<tr><td>hours spend = 8.0</td></tr>
-<tr><td>hours remaining = 2.0</td></tr>
-<tr><td><a href='GroupAccountRuleRecognitionBurnupChart.png'>burnup</a></td></tr>
-<tr><td><a href='GroupAccountRuleRecognitionTimeLine.html'>time line</a></td></tr>
 </table><tr><td>
 <tr><td><table border='1' rules='none' bgcolor='#fafad2'><tr><td><a href='TransformationsCodegen.html'>TransformationsCodegen</a></td></tr>
 <tr><td><a href='Sprint.001.Bootingkanban.html'>Sprint.001.Booting</a></td></tr>

diff --git a/doc/refs.html b/doc/refs.html
@@ -12,17 +12,13 @@
  <a href="FerrymansProblemExample.html" target="Main">FerrymansProblemExample</a><br>
  <a href="GenericObjectDiagram.html" target="Main">GenericObjectDiagram</a><br>
  <a href="GroupAccountCodegen.html" target="Main">GroupAccountCodegen</a><br>
- <a href="GroupAccountRuleRecognition.html" target="Main">GroupAccountRuleRecognition</a><br>
  <a href="GroupAccountScenario1.html" target="Main">GroupAccountScenario1</a><br>
  <a href="LoadEcoreCreateClassModel.html" target="Main">LoadEcoreCreateClassModel</a><br>
  <a href="LudoModel.html" target="Main">LudoModel</a><br>
  <a href="LudoScenario.html" target="Main">LudoScenario</a><br>
  <a href="LudoScenarioManual.html" target="Main">LudoScenarioManual</a><br>
- <a href="MauMauModel.html" target="Main">MauMauModel</a><br>
  <a href="PatternModelCodeGen.html" target="Main">PatternModelCodeGen</a><br>
  <a href="PatternModelCodegen.html" target="Main">PatternModelCodegen</a><br>
- <a href="PeerToPeerNetworkChatScenario.html" target="Main">PeerToPeerNetworkChatScenario</a><br>
- <a href="PeerToServerChatScenario.html" target="Main">PeerToServerChatScenario</a><br>
  <a href="ReachabilitGraphSameCertificatesNonIsomorphic.html" target="Main">ReachabilitGraphSameCertificatesNonIsomorphic</a><br>
  <a href="ReplicationModel.html" target="Main">ReplicationModel</a><br>
  <a href="ScenarioInfrastructure.html" target="Main">ScenarioInfrastructure</a><br>
@@ -45,7 +41,6 @@
  <a href="TrainModel.html" target="Main">TrainModel</a><br>
  <a href="TransformationsCodegen.html" target="Main">TransformationsCodegen</a><br>
  <a href="adamAndEveModel.html" target="Main">adamAndEveModel</a><br>
- <a href="peerToPeerChatModel.html" target="Main">peerToPeerChatModel</a><br>
  <a href="taskFlowModel.html" target="Main">taskFlowModel</a><br>
  <a href="trainCollectPassengers.html" target="Main">trainCollectPassengers</a><br>
  

diff --git a/doc/Sprint.001.Bootingkanban.html b/doc/Sprint.001.Bootingkanban.html
@@ -5,8 +5,8 @@
 <tr> <td valign='top'><table border ='0'><tr><td><table border='1' rules='none' bgcolor='#fafad2'><tr><td><a href='Sprint.001.Bootingkanban.html'>Sprint.001.Booting</a></td></tr>
 <tr><td><a href='SDMLibProjectkanban.html'>SDMLibProject</a></td></tr>
 <tr><td>developer = zuendorf</td></tr>
-<tr><td>hours spend = 60.0</td></tr>
-<tr><td>hours remaining = 4.0</td></tr>
+<tr><td>hours spend = 52.0</td></tr>
+<tr><td>hours remaining = 2.0</td></tr>
 <tr><td><a href='Sprint.001.BootingBurnupChart.png'>burnup</a></td></tr>
 <tr><td><a href='Sprint.001.BootingTimeLine.html'>time line</a></td></tr>
 </table><tr><td>
@@ -20,15 +20,7 @@
 <tr><td><a href='GenericObjectDiagramTimeLine.html'>time line</a></td></tr>
 </table><tr><td>
 </table></td>
- <td valign='top'><table border ='0'><tr><td><table border='1' rules='none' bgcolor='#fafad2'><tr><td><a href='GroupAccountRuleRecognition.html'>GroupAccountRuleRecognition</a></td></tr>
-<tr><td><a href='Sprint.001.Bootingkanban.html'>Sprint.001.Booting</a></td></tr>
-<tr><td>developer = zuendorf</td></tr>
-<tr><td>hours spend = 8.0</td></tr>
-<tr><td>hours remaining = 2.0</td></tr>
-<tr><td><a href='GroupAccountRuleRecognitionBurnupChart.png'>burnup</a></td></tr>
-<tr><td><a href='GroupAccountRuleRecognitionTimeLine.html'>time line</a></td></tr>
-</table><tr><td>
-<tr><td><table border='1' rules='none' bgcolor='#fafad2'><tr><td><a href='TransformationsCodegen.html'>TransformationsCodegen</a></td></tr>
+ <td valign='top'><table border ='0'><tr><td><table border='1' rules='none' bgcolor='#fafad2'><tr><td><a href='TransformationsCodegen.html'>TransformationsCodegen</a></td></tr>
 <tr><td><a href='Sprint.001.Bootingkanban.html'>Sprint.001.Booting</a></td></tr>
 <tr><td>developer = zuendorf</td></tr>
 <tr><td>hours spend = 7.0</td></tr>

diff --git a/doc/Sprint.002.Transformationskanban.html b/doc/Sprint.002.Transformationskanban.html
@@ -19,14 +19,6 @@
 <tr><td><a href='LudoModelBurnupChart.png'>burnup</a></td></tr>
 <tr><td><a href='LudoModelTimeLine.html'>time line</a></td></tr>
 </table><tr><td>
-<tr><td><table border='1' rules='none' bgcolor='#fafad2'><tr><td><a href='PatternModel.html'>PatternModel</a></td></tr>
-<tr><td><a href='Sprint.002.Transformationskanban.html'>Sprint.002.Transformations</a></td></tr>
-<tr><td>developer = null</td></tr>
-<tr><td>hours spend = 0.0</td></tr>
-<tr><td>hours remaining = 0.0</td></tr>
-<tr><td><a href='PatternModelBurnupChart.png'>burnup</a></td></tr>
-<tr><td><a href='PatternModelTimeLine.html'>time line</a></td></tr>
-</table><tr><td>
 <tr><td><table border='1' rules='none' bgcolor='#fafad2'><tr><td><a href='PatternModelCodeGen.html'>PatternModelCodeGen</a></td></tr>
 <tr><td><a href='Sprint.002.Transformationskanban.html'>Sprint.002.Transformations</a></td></tr>
 <tr><td>developer = null</td></tr>

diff --git a/doc/Sprint.001.BootingTimeLine.html b/doc/Sprint.001.BootingTimeLine.html
@@ -37,5 +37,7 @@ e.g.: ModelSet any = ModelSet.startWith(albert).getAny(); </p>
 <p>31.05.2012 15:22:42 zuendorf hours spend: 0.0 hours remaining: 8.0 GenericObjectDiagram: Achieved: BUG REPORT: if an object has a (String) attribute with name 'id', this attribute is not shown in the object diagram </p>
 <p>19.08.2012 23:04:42 zuendorf hours spend: 0.0 hours remaining: 4.0 StudyRightObjectScenarios: Achieved: Feature Request: model sets need to provide set methods and other methods. These methods shall be forwarded to each set member. 
 e.g.: room.getNeighbors().findPath(path, motivation); </p>
+<p>19.08.2012 23:04:42 zuendorf hours spend: -8.0 hours remaining: 2.0 StudyRightObjectScenarios: Achieved: Feature Request: model sets need to provide set methods and other methods. These methods shall be forwarded to each set member. 
+e.g.: room.getNeighbors().findPath(path, motivation); </p>
 </body>
 </html>

diff --git a/doc/SDMLibProjectTimeLine.html b/doc/SDMLibProjectTimeLine.html
@@ -62,5 +62,6 @@ e.g.: ModelSet any = ModelSet.startWith(albert).getAny(); </p>
 <p>03.09.2013 12:00:00 zuendorf hours spend: 8.0 hours remaining: 18.0 GroupAccountScenario1: null</p>
 <p>03.09.2013 12:00:00 zuendorf hours spend: 0.0 hours remaining: 20.0 GroupAccountScenario1: null</p>
 <p>03.09.2013 12:00:00 zuendorf hours spend: 0.0 hours remaining: 18.0 GroupAccountScenario1: null</p>
+<p>03.09.2013 12:00:00 zuendorf hours spend: -8.0 hours remaining: 16.0 GroupAccountScenario1: null</p>
 </body>
 </html>
